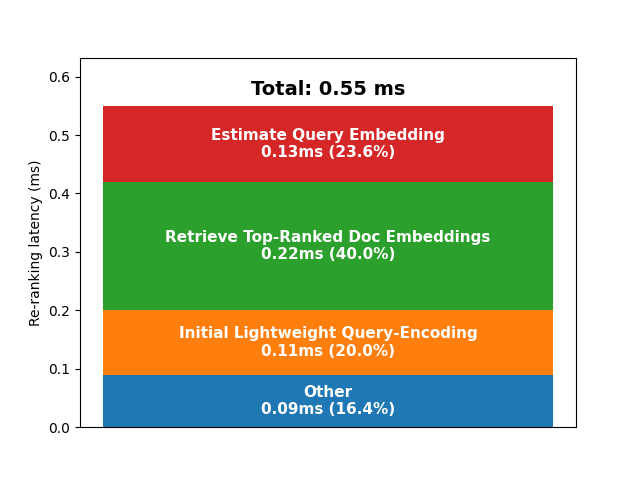
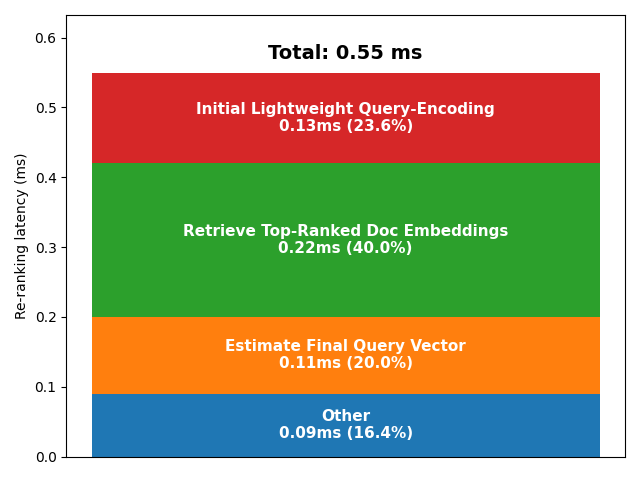
update plots

diff --git a/plot_data/weights_per_n_docs.py b/plot_data/weights_per_n_docs.py
@@ -43,8 +43,13 @@ def plot(data: Dict[str, Any]):
         # Normalize x-axis values
         x_values = np.linspace(0, 100, len(weights_normalized))
 
-        # Plot the weights as a line plot with dots
-        ax1.plot(x_values, weights_normalized, marker='.', label=f"n_docs={n_docs}")
+        # Plot the first element separately
+        ax1.plot(x_values[0], weights_normalized[0], marker='X', color=f"C{(i % 9)}", markersize=10)
+        if i == 0:
+            ax1.text(x_values[0] + 2, weights_normalized[0] - 1, '← q_light', fontsize=12, verticalalignment='center', fontweight='bold')
+
+        # Plot the rest of the elements
+        ax1.plot(x_values[1:], weights_normalized[1:], marker='.', color=f"C{(i % 9)}", label=f"n_docs={n_docs}", markersize=10)
 
         # Ignore the first element and normalize
         weights_ignored = weights[1:]
@@ -54,17 +59,14 @@ def plot(data: Dict[str, Any]):
         # Normalize x-axis values
         x_values_ignored = np.linspace(0, 100, len(weights_ignored))
 
-        # Highlight the dot of n_docs=1 more
-        if n_docs == 1:
-            # ax2.plot(x_values_ignored[0], weights_ignored[0], marker='')
-            # ax2.axhline(y=weights_ignored[0], linestyle='-', label="n_docs=1")
-            pass
-        else:
-            ax2.plot(x_values_ignored, weights_ignored, marker='.', label=f"n_docs={n_docs}", color=f"C{(i % 9)}")
+        # Plot just the document weights, excluding n_docs=1
+        if n_docs != 1:
+            ax2.plot(x_values[1:], weights_normalized[1:], marker='.', color=f"C{(i % 9)}", label=f"n_docs={n_docs}", markersize=10)
 
     for ax in [ax1, ax2]:
         ax.legend()
 
+    fig.tight_layout()
     fig.savefig("plot_data/figures/weights_per_n_docs.png", transparent=True)
     plt.show()
 

diff --git a/plot_data/q_enc_distribution.py b/plot_data/q_enc_distribution.py
@@ -32,9 +32,9 @@ def plot_runtimes(profiles: Dict[str, float]):
 
     bars = [
         ("Other", other, 0),
-        ("Initial Lightweight Query-Encoding", q_emb_2, other),
+        ("Estimate Final Query Vector", q_emb_2, other),
         ("Retrieve Top-Ranked Doc Embeddings", _get_top_docs, other + q_emb_2),
-        ("Estimate Query Embedding", q_emb_1, other + q_emb_2 + _get_top_docs),
+        ("Initial Lightweight Query-Encoding", q_emb_1, other + q_emb_2 + _get_top_docs),
     ]
     for label, value, bottom in bars:
         ax.bar(0, value, label=label, bottom=bottom)
@@ -65,7 +65,7 @@ def plot_runtimes(profiles: Dict[str, float]):
 
     # handles, labels = ax.get_legend_handles_labels()
     # ax.legend(handles[::-1], labels[::-1], bbox_to_anchor=(1, 0.5), loc='center left')
-    # fig.tight_layout()
+    fig.tight_layout()
 
     fig.savefig("plot_data/figures/q_enc_distribution.png", transparent=True)
     plt.show()
